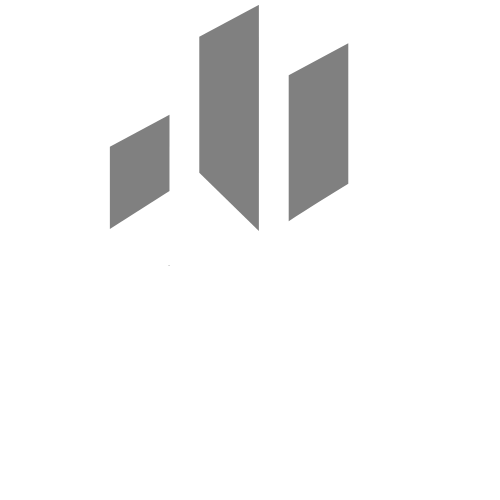
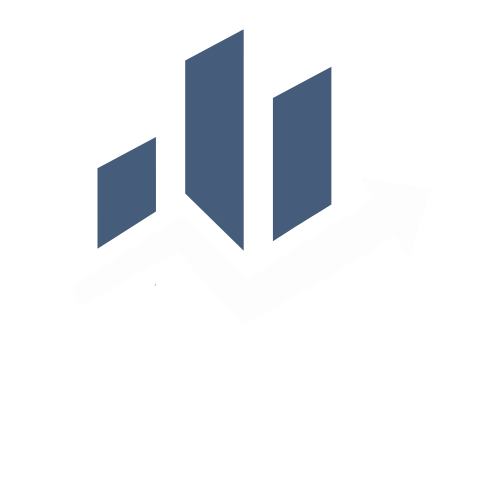
Add files via upload

Changed region(s): [[0.18, 0.0, 0.72, 0.51]]

diff --git a/aboutus.html b/aboutus.html
@@ -41,7 +41,7 @@
 <div class="story-header">
     <h2 class="story-heading">Our Story</h2>
     <img src="images/aboutus.jpg" alt="" class="about-image">
-    <p>
+    <p class="space">
                    
         Ryan, Alex, and Megan, founders of Private Duty Billing Solutions, draw from their experience as former owners and employees of a home care agency to understand the unique challenges of small business ownership. Recognizing the need for specialized support in billing and operations, they launched Private Duty Billing Solutions in Kalamazoo, MI. With a commitment to empowering home care agencies, they provide tailored consultation and support to help them thrive in an evolving industry.
     </p>
@@ -49,7 +49,8 @@
         Driven by their firsthand knowledge and passion for making a difference, Ryan, Alex, and Megan lead their team in delivering unparalleled assistance to home care agencies. Whether it's optimizing billing processes or streamlining operations, Private Duty Billing Solutions is dedicated to providing the tools and expertise needed for success in the dynamic world of home care.    
     </p>
 </div>
-<img src="images/businessimage1.jpg" alt="" class="spanimg">
+<br>
+<hr>
 <div class="foundingmembers">
         <h2 class="story-heading2">Founding Members</h2> 
         <div class="div1">
@@ -63,7 +64,7 @@
                 </p>
             </div>
         </div> 
-        
+         
         <div>
             <img src="images/alex.jpg" alt="" class="alex-image">
             <div class="ryan-text">

diff --git a/index.html b/index.html
@@ -3,7 +3,7 @@
 <head>
     <meta charset="UTF-8">
     <meta name="viewport" content="width=device-width, initial-scale=1.0">
-    <link rel="icon" type="image/png" href="images/tablogo.png">
+    <link rel="icon" type="image/png" href="images/Test1.png">
     <title>Private Duty Billing Solutions</title>
     <link rel="stylesheet" href="css/index.css">
     <script>
@@ -50,7 +50,7 @@
 <div class="header">
     <div class="logo">
         <!-- Replace the src attribute with the path to your logo image -->
-        <img src="images/Test.png" alt="Logo" width="50" height="50">
+        <img src="images/Test2.png" alt="Logo" width="50" height="50">
     </div>
     <div class="nav">
         <a href="aboutus.html"><button>About Us</button></a>

diff --git a/css/aboutus.css b/css/aboutus.css
@@ -22,6 +22,11 @@ h1, h2, h3, h4, h5, h6 {
 p, span, a, button {
     font-weight: 300; /* Adjust font weight for paragraphs, spans, links, and buttons */
 }
+hr {
+    background-color: #455d7a;
+    height: 10vh;
+    
+}
 .logo {
     float: left;
     text-align: left;
@@ -189,6 +194,10 @@ p, span, a, button {
     margin-left: 5px;
     margin-right: 20px;
     color: #233142;
+    
+}
+.space {
+    padding-top: 2vh;
 }
 .about-image {
     box-shadow: 0 4px 8px rgba(0, 0, 0, 0.8);
